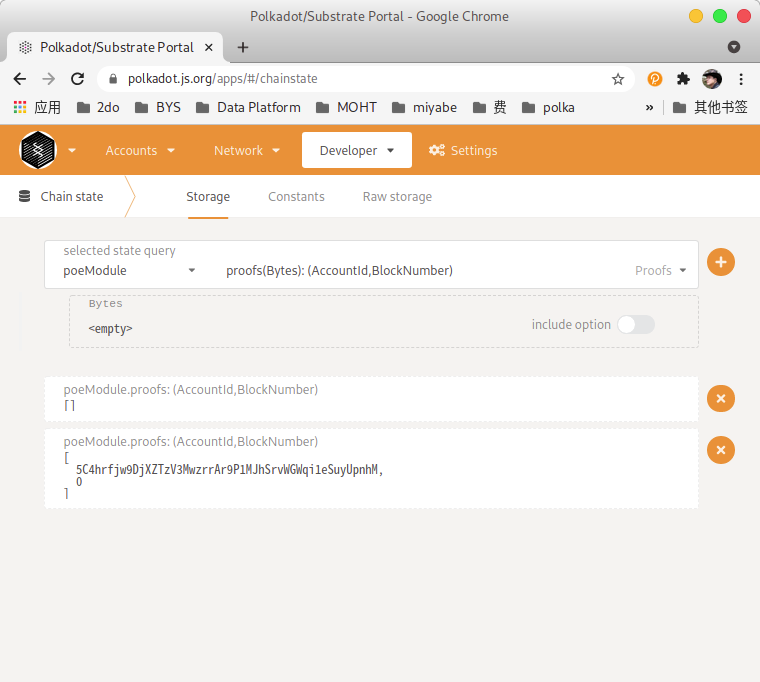
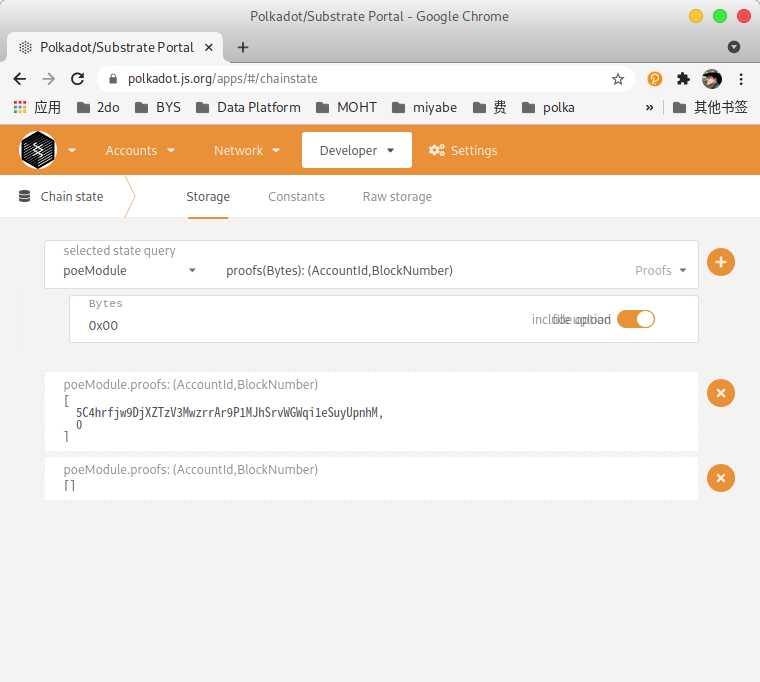
Q3 screenshots

diff --git a/README.md b/README.md
@@ -17,31 +17,41 @@ substrate_hw5
   1. Chain running
   ![Compile & chain running](doc/chain_running.png?raw=true)
 
-  2. Alice submit claim 0x00
+  2. Claims Initial State
+  ![Claims initial state](doc/claims_state00.png?raw=true)
+
+  3. Alice claims 0x00
   ![alice 0x00](doc/alice_claims_0x00.png?raw=true)
 
-  2. Bob cannot claim 0x00
+  4. Bob claims 0x00 FAILED
   ![bob 0x01](doc/bob_claims_0x00_failed.png?raw=true)
 
-  4. Bob submit claim 0x01
+  5. Bob claims 0x01
   ![bob 0x01](doc/bob_claims_0x01.png?raw=true)
 
-  5. submitted 2 claims
-  ![2 claims](doc/claims_ѕtate01.png?raw=true)
+  6. submitted 2 claims
+  ![2 claims total](doc/claims_ѕtate01.png?raw=true)
 
   6. Alice cannot revoke Bob's claim
-  ![alice failed to revoke bob's claim](doc/alice_revoke_bob_failed.png?raw=true)
+  ![alice failed to revoke bob's claim](doc/alice_revokes_bob_failed.png?raw=true)
 
   7. Bob revoke own claim successfully
-  ![bob revoke own claim successfully](doc/bob_revoke_own_claim_success.png?raw=true)
+  ![bob revoke own claim successfully](doc/bob_revokes_own_claim.png?raw=true)
 
 
-* Q3 embedded in Q2 pallet/poe.rs
+* Q3 embedded in pallet/poe.rs/transfer_claim
   1. Claims available 
-  ![claims available](doc/claims_available.png?raw=true)
+  ![claims initial state](doc/claims_state01.png?raw=true)
 
-  2. Claim transfer failed
-  ![claim transfer failed](doc/claim_transer_failed?raw=true)
+  2. Self-transfer failed
+  ![self transfer failed](doc/alice_transfers_self_failed?raw=true)
 
-  3. Claim transfer success
-  ![claim transfer success](doc/claim_transer_success?raw=true)
+  3. Transfer something I don't own failed
+  ![transfer not mine failed](doc/alice_transfers_0x01_failed?raw=true)
+
+  4. Claim transfer success
+  ![claim transfer success](doc/alice_transfers_bob_0x00?raw=true)
+
+  5. Bob (5FHneW46xGXgs5mUiveU4sbTyGBzmstUspZC92UhjJM694ty) owns 2 claims now
+  ![claims final state](doc/claims_state02.png?raw=true)
+
